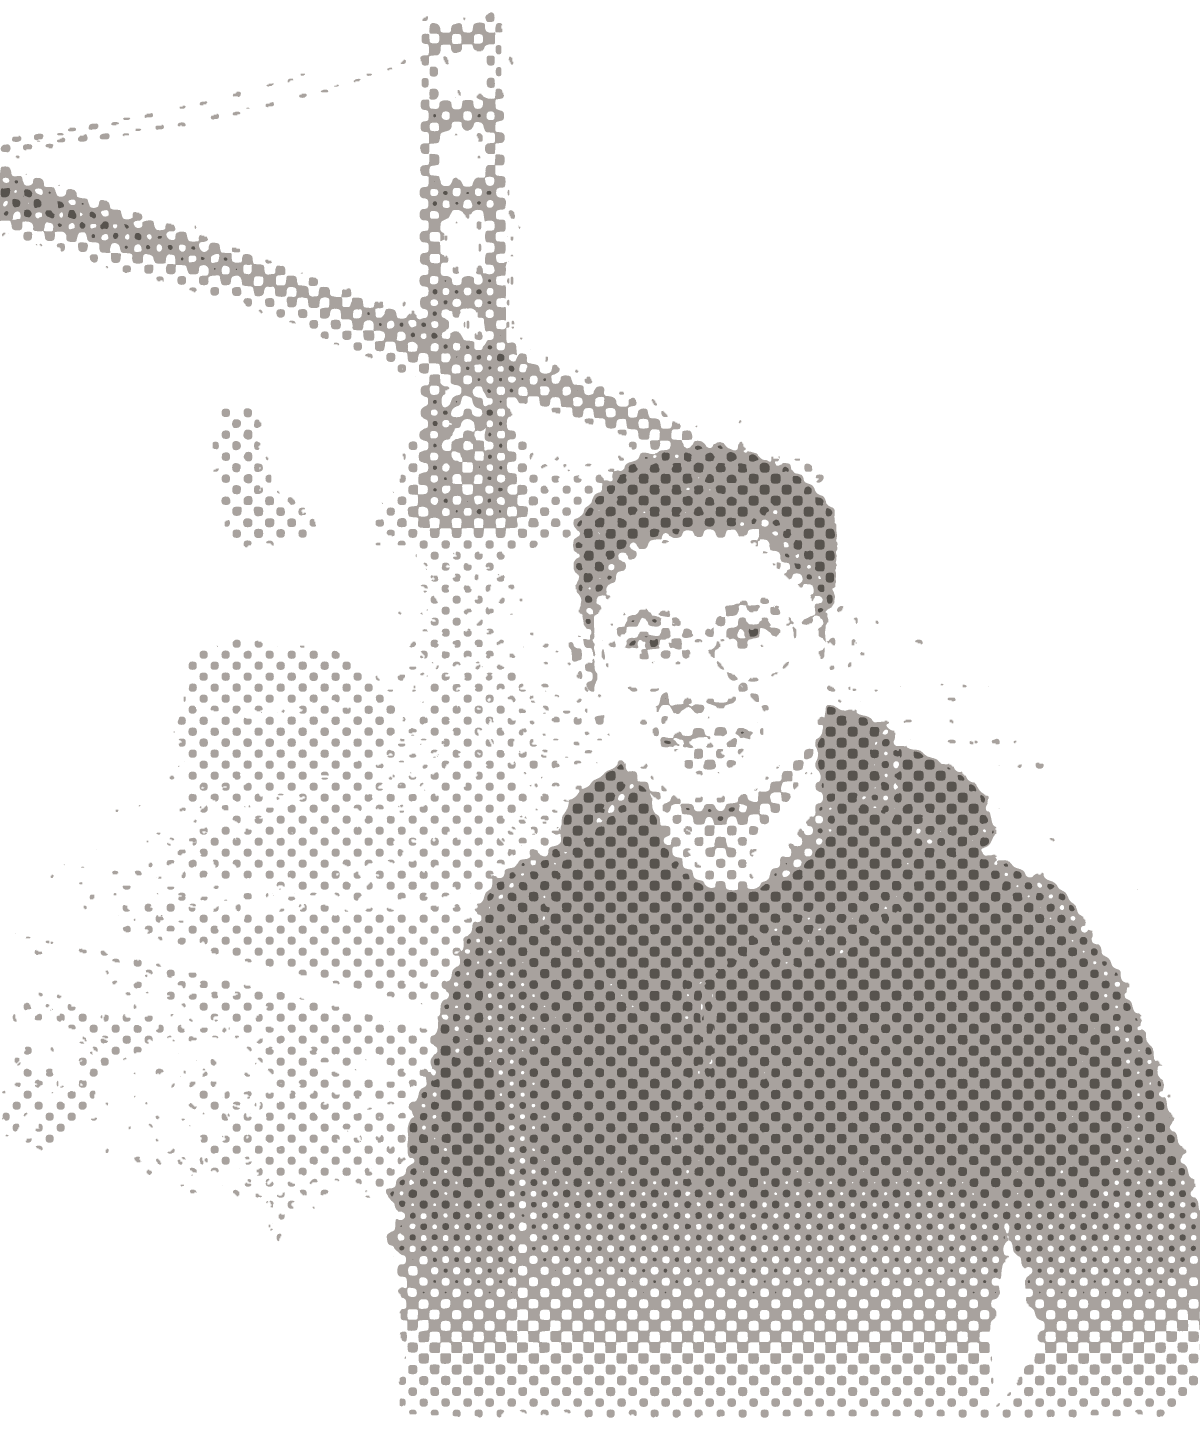
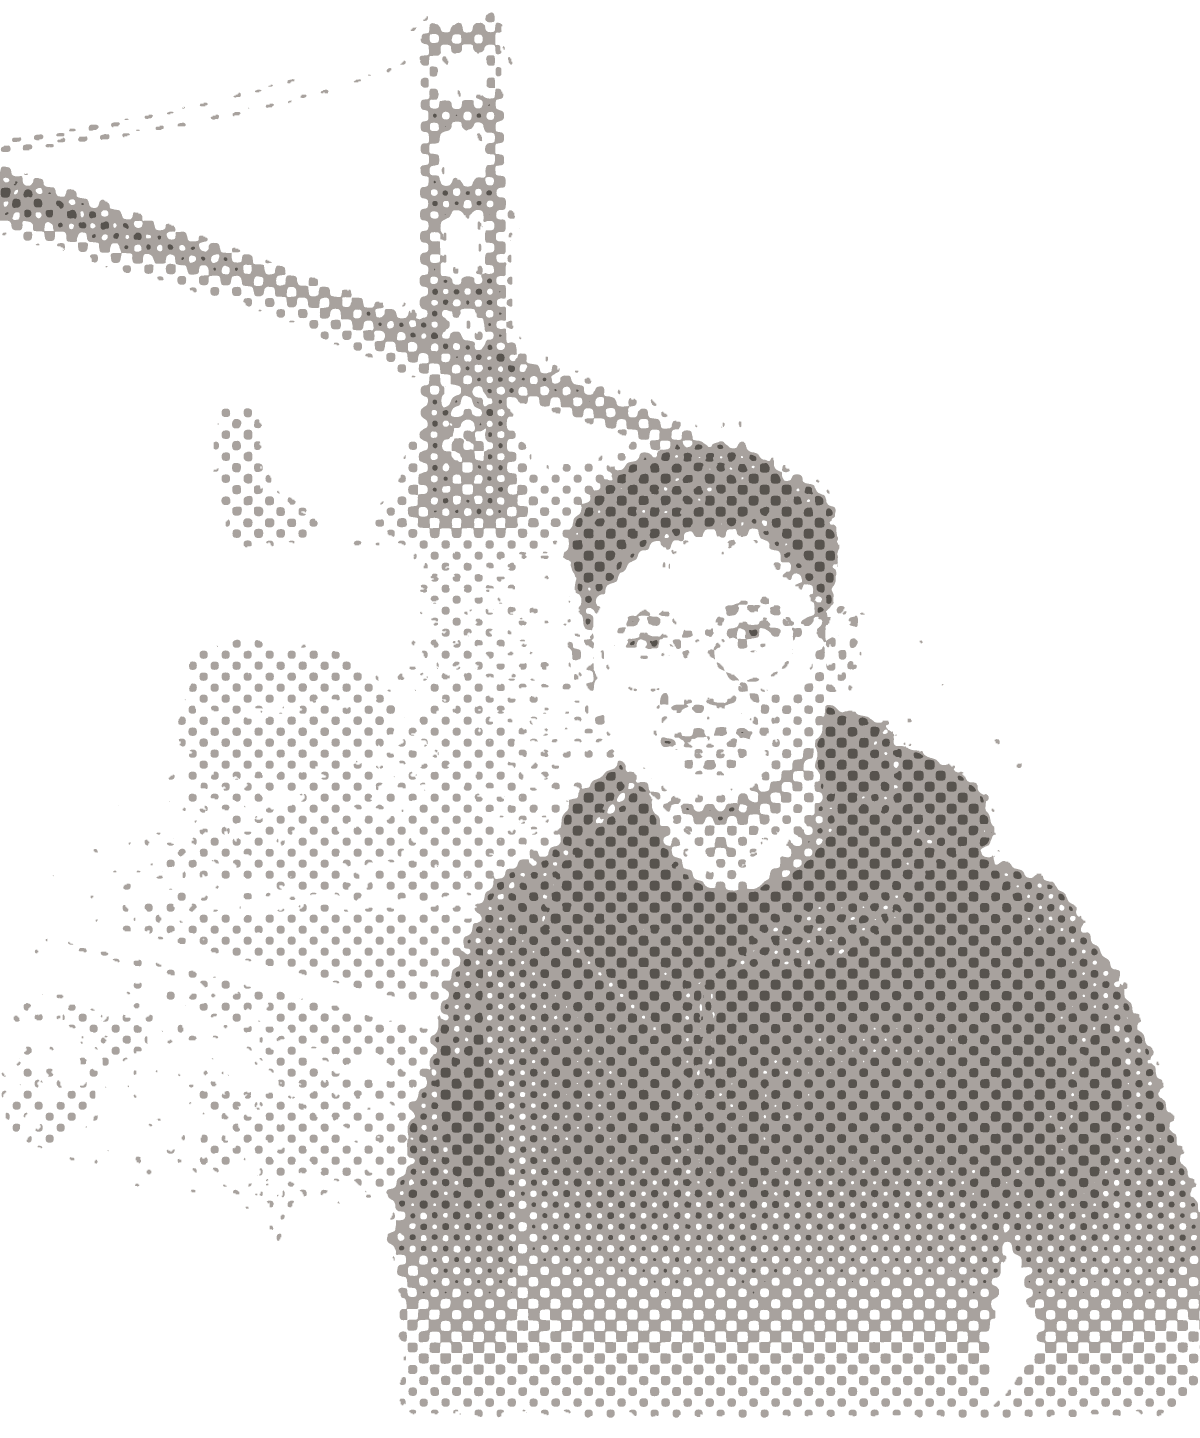
feat(hero): restyle the portrait's hair so it stops reading as AI
The combed, glossy hair was what gave the Golden Gate portrait away. The
new source has soft, loosely flowing hair with a few pieces on the
forehead, the side hair darkened about 25% to match the top, and a sharp
overcast background with a light filter blur (faded to zero near him) so
the generated texture is less obvious. The streaky water beside his face
is patched with real ripples from the same rows.

The hero portraits and site icons are rebuilt from it with
build-franky.sh and build-icon.sh; the favicon RGBA guard passes. The
README records how source.png was produced.

diff --git a/scripts/hero/README.md b/scripts/hero/README.md
@@ -66,8 +66,8 @@ Nothing on the landing page loads any of these until a pick lands.
 
 | File | What it is |
 |---|---|
-| `../../public/hero/source.png` | the graded photo, 1024x1536 |
-| `subject-matte.png` | Kyle's alpha, from `rembg` u2net_human_seg |
+| `../../public/hero/source.png` | the graded photo, 1024x1536, downscaled from a 2048x3072 master (`~/Desktop/Pics/portrait-retouched/kyle-sf-portrait-og.png`). Built in steps: the hair (soft, loosely flowing, a few pieces on the forehead) from `gpt-image-2` edits; a sharp overcast background from a `gpt-image-2` render referenced on a real Fort Point photo; the streaky water left of his face replaced with real ripples from the right side of the same rows; the side hair darkened about 25% by a multiply filter limited to neutral hair pixels above the ears; and a light Gaussian blur (sigma 1.2 at 2048x3072) on the background, faded to zero within about 60 px of him. The blur is a filter, not generated, so it hides the AI texture without leaving an outline. The earlier combed, glossy hair read as AI at the hero's scale. |
+| `subject-matte.png` | Kyle's alpha, from `rembg` u2net_human_seg on the current `source.png` |
 | `bridge-mask.png` | the bridge structure, keyed on international orange, largest connected component, Fort Point cut out |
 
 ## Stages
